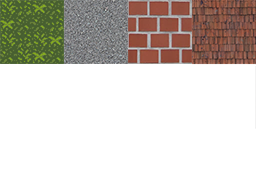
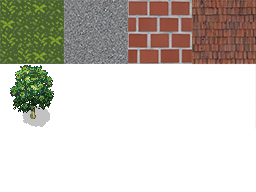
Novas entidades estáticas e colisão

Changed region(s): [[0.0312, 0.3125, 0.2188, 0.6562]]

diff --git a/src/jogo/GerenciadorDeEntidades.java b/src/jogo/GerenciadorDeEntidades.java
@@ -1,0 +1,62 @@
+package jogo;
+
+import java.awt.*;
+import java.util.ArrayList;
+
+//player = new Jogador(handler,mundo.getSpawnX(),mundo.getSpawnY());
+
+public class GerenciadorDeEntidades {
+
+    private Handler handler;
+    private Jogador player;
+    private ArrayList<Entidade> entidades;
+
+    public GerenciadorDeEntidades(Handler handler, Jogador player){
+        this.handler = handler;
+        this.player = player;
+        entidades = new ArrayList<Entidade>();
+        adicionaEntidade(player);
+    }
+
+
+    public void atualiza() {
+        for(int i = 0; i < entidades.size(); i++){
+            Entidade e = entidades.get(i);
+            e.atualiza();
+        }
+    }
+
+    public void render(Graphics g) {
+        for(Entidade e: entidades){
+            e.render(g);
+        }
+    }
+
+    public void adicionaEntidade(Entidade e){
+        entidades.add(e);
+    }
+
+    public Handler getHandler() {
+        return handler;
+    }
+
+    public void setHandler(Handler handler) {
+        this.handler = handler;
+    }
+
+    public Jogador getPlayer() {
+        return player;
+    }
+
+    public void setPlayer(Jogador player) {
+        this.player = player;
+    }
+
+    public ArrayList<Entidade> getEntidades() {
+        return entidades;
+    }
+
+    public void setEntidades(ArrayList<Entidade> entidades) {
+        this.entidades = entidades;
+    }
+}

diff --git a/src/jogo/Mundo.java b/src/jogo/Mundo.java
@@ -10,13 +10,24 @@ public class Mundo {
     private int spawnX, spawnY;
     private int[][] lad;
 
+    //Entidades
+    private GerenciadorDeEntidades gerenciadorDeEntidades;
+
     public Mundo(Handler handler, String caminho){
         carregador(caminho);
+        gerenciadorDeEntidades = new GerenciadorDeEntidades(handler, new Jogador(handler,100,100));
+
         this.handler = handler;
+
+        gerenciadorDeEntidades.getPlayer().setX(spawnX * Ladrilho.LAD_WIDTH);
+        gerenciadorDeEntidades.getPlayer().setY(spawnY * Ladrilho.LAD_HEIGHT);
+
+        gerenciadorDeEntidades.adicionaEntidade(new Arvore(handler, 100, 200));
+
     }
 
     public void atualiza() {
-
+        gerenciadorDeEntidades.atualiza();
     }
 
     public void render(Graphics g) {
@@ -35,6 +46,9 @@ public class Mundo {
                         (int) (y * Ladrilho.LAD_HEIGHT - handler.getCamera().getyOffset()));
             }
         }
+
+        //Entidades
+        gerenciadorDeEntidades.render(g);
     }
 
     public Ladrilho getTile(int x, int y){
@@ -72,6 +86,10 @@ public class Mundo {
 
     public int getHeight() {
         return height;
+    }
+
+    public GerenciadorDeEntidades getGerenciadorDeEntidades() {
+        return gerenciadorDeEntidades;
     }
 
     public int getSpawnX() {

diff --git a/src/jogo/Arvore.java b/src/jogo/Arvore.java
@@ -1,0 +1,35 @@
+package jogo;
+
+import java.awt.*;
+
+public class Arvore extends EntidadeEstatica{
+
+    public Arvore(Handler handler, float x, float y){
+        super(handler, x, y, Ladrilho.LAD_WIDTH, Ladrilho.LAD_HEIGHT);
+
+        bounds.x = 30;
+        bounds.y = 40;
+        bounds.width = 10;
+        bounds.height = 24;
+    }
+
+    @Override
+    public void atualiza() {
+
+    }
+
+    @Override
+    public void render(Graphics g) {
+        g.drawImage(Assets.arvore,
+                (int) (x - handler.getCamera().getxOffset()),
+                (int) (y - handler.getCamera().getyOffset()),
+                width, height, null);
+
+        /*
+        g.setColor(Color.RED);
+        g.fillRect((int) (x + bounds.x - handler.getCamera().getxOffset()),
+                (int) (y + bounds.y - handler.getCamera().getyOffset()),
+                bounds.width, bounds.height);
+        */
+    }
+}

diff --git a/src/jogo/Entidade.java b/src/jogo/Entidade.java
@@ -22,6 +22,23 @@ public abstract class Entidade {
 
     public abstract void render(Graphics g);
 
+    public boolean colisaoEntidade(float xOffset, float yOffset){
+        for(Entidade e: handler.getMundo().getGerenciadorDeEntidades().getEntidades()){
+            if(e.equals(this)) continue;
+
+            if(e.getCBounds(0f,0f).intersects(getCBounds(xOffset,yOffset))){
+                return true;
+            }
+        }
+        return false;
+    }
+
+    public Rectangle getCBounds(float xOffset, float yOffset){
+        return new Rectangle((int)(x + bounds.x + xOffset),
+                (int)(y + bounds.y + yOffset),
+                bounds.width, bounds.height);
+    }
+
     public float getX() {
         return x;
     }

diff --git a/src/jogo/Assets.java b/src/jogo/Assets.java
@@ -5,7 +5,7 @@ import java.awt.image.BufferedImage;
 public class Assets {
 
     private static final int width = 64, height = 64;
-    public static BufferedImage grama, asfalto, tijolo, player;
+    public static BufferedImage grama, asfalto, tijolo, player, arvore;
     public static BufferedImage[] jogador_baixo, jogador_cima, jogador_dir, jogador_esq;
 
     public static void init(){
@@ -37,5 +37,6 @@ public class Assets {
         grama = textura.corta(0,0,width,height);
         asfalto = textura.corta(width,0,width,height);
         tijolo = textura.corta(width*2,0,width,height);
+        arvore = textura.corta(0,height,width,height);
     }
 }

diff --git a/src/jogo/EstadoJogo.java b/src/jogo/EstadoJogo.java
@@ -4,27 +4,22 @@ import java.awt.*;
 
 public class EstadoJogo extends Estado {
 
-    private Jogador player;
     private Mundo mundo;
 
     public EstadoJogo(Handler handler){
         super(handler);
         mundo = new Mundo(handler, "res/mundos/mundo1.txt");
         handler.setMundo(mundo);
-        player = new Jogador(handler,mundo.getSpawnX(),mundo.getSpawnY());
 
     }
 
     @Override
     public void atualiza() {
         mundo.atualiza();
-        player.atualiza();
-
-    }
+   }
 
     @Override
     public void render(Graphics g) {
         mundo.render(g);
-        player.render(g);
     }
 }

diff --git a/src/jogo/Criatura.java b/src/jogo/Criatura.java
@@ -23,8 +23,12 @@ public abstract class Criatura extends Entidade {
     }
 
     public void movimento(){
-        movX();
-        movY();
+        if(!colisaoEntidade(xMove, 0f)){
+            movX();
+        }
+        if(!colisaoEntidade(0f, yMove)){
+            movY();
+        }
     }
 
     public void movX(){//Movimenta e Colisão horizontal

diff --git a/src/jogo/EntidadeEstatica.java b/src/jogo/EntidadeEstatica.java
@@ -1,0 +1,9 @@
+package jogo;
+
+public abstract class EntidadeEstatica extends Entidade{
+
+    public EntidadeEstatica(Handler handler, float x, float y, int width, int height){
+        super(handler, x, y, width, height);
+    }
+
+}
